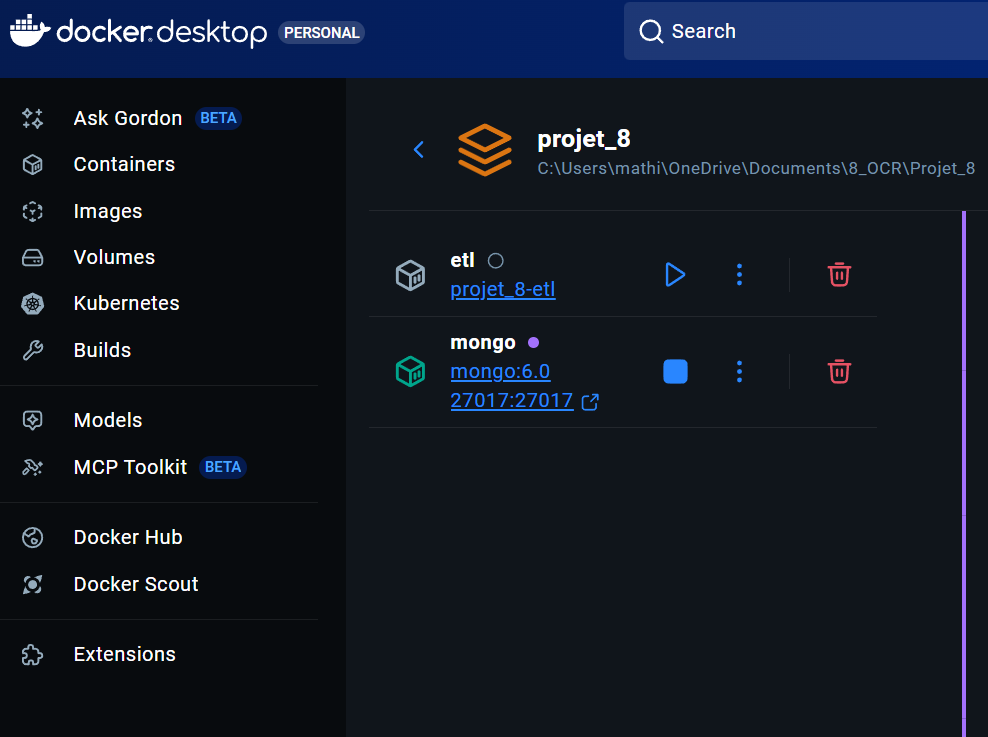
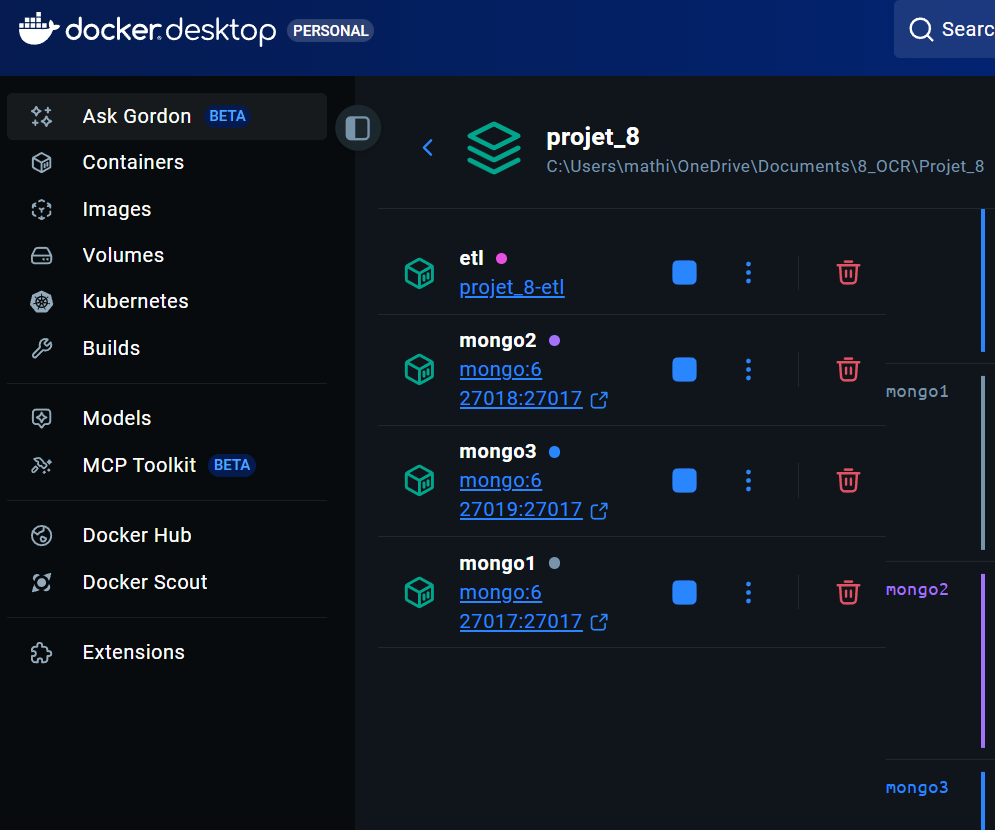
add replica

diff --git a/init-replica.js b/init-replica.js
@@ -1,0 +1,18 @@
+// Attendre que l'initiation soit complète
+var config = {
+  _id: "rs0",
+  members: [
+    { _id: 0, host: "mongo1:27017", priority: 2 },
+    { _id: 1, host: "mongo2:27017", priority: 1 },
+    { _id: 2, host: "mongo3:27017", priority: 1 }
+  ]
+};
+
+rs.initiate(config);
+
+// Attendre que le replica set soit prêt
+sleep(5000);
+
+// Vérifier le statut
+print("Status du replica set:");
+printjson(rs.status());

diff --git a/orchestration/run_pipeline.py b/orchestration/run_pipeline.py
@@ -1,21 +1,12 @@
-"""Script d'orchestration ETL 
-
-Exécute le pipeline complet dans l'ordre :
-    1. Tests unitaires (extract_transform/)
-    2. Extract + Transform
-    3. Tests d'intégration (load/)
-    4. Load MongoDB
-"""
-
 import subprocess
 import sys
-
+import os
 
 def run_tests():
     """Lance les tests pytest"""
     print("Lancement des tests unitaires...")
     result = subprocess.run(
-        ["pytest", "-v", "extract_transform/test_extract_transform.py"],
+        [sys.executable, "-m", "pytest", "-v", "extract_transform/test_extract_transform.py"],
         capture_output=True,
         text=True
     )
@@ -24,7 +15,7 @@ def run_tests():
     
     if result.returncode != 0:
         print("\n ÉCHEC : Les tests ont échoué !")
-        print("Le pipeline ETL ne sera PAS exécuté.")
+        print(result.stderr)
         sys.exit(1)
     
     print("\n Tous les tests sont passés !")
@@ -33,17 +24,14 @@ def run_tests():
 def run_et():
     """Lance le pipeline ETL"""
     print("\nLancement du pipeline ET...")
-    
-    # Importer et exécuter le main du ET
     from extract_transform.main_script_extract_transform import main
     main()
-    
     print("\n Pipeline extract_transform terminé !")
 
 def run_integration_tests():
     print("\n Lancement des tests d'intégration...")
     result = subprocess.run(
-        ["python", "load/tests_integration.py"],
+        [sys.executable, "load/tests_integration.py"],
         capture_output=True,
         text=True
     )
@@ -51,15 +39,14 @@ def run_integration_tests():
     print(result.stdout)
 
     if result.returncode != 0:
-        print("\n --- ERREUR DÉTECTÉE DANS LE SCRIPT ---")
-        print(result.stderr)  # <--- AJOUTE ÇA pour voir le Traceback Python
-        print("\n ÉCHEC : Le script de mesure a planté")
+        print("\n --- ERREUR DÉTECTÉE DANS LES TESTS D'INTÉGRATION ---")
+        print(result.stderr)
         sys.exit(1)
 
 def run_load():
     print("\n Lancement de la pipeline Load...")
     result = subprocess.run(
-        ["python", "load/load_mongo.py"],
+        [sys.executable, "load/load_mongo.py"],
         capture_output=True,
         text=True
     )
@@ -74,9 +61,8 @@ def run_load():
 
     print("\n Réussite du Load !")
 
-if __name__ == "__main__":
-    run_tests()    
-    run_et()      # ←  ne s'exécute QUE si tests OK
+if __name__ == "__main__": 
+    run_et()
+    run_tests() 
     run_load()
     run_integration_tests()
-

diff --git a/load/tests_integration.py b/load/tests_integration.py
@@ -5,26 +5,44 @@ from dotenv import load_dotenv
 
 load_dotenv()
 
-MONGO_URI = os.environ.get("MONGO_URI")
+def get_mongo_uri():
+    is_docker = os.path.exists('/.dockerenv')
+    env_uri = os.environ.get("MONGO_URI")
+    
+    if is_docker:
+        return env_uri if env_uri else "mongodb://mongo1:27017,mongo2:27017,mongo3:27017/?replicaSet=rs0"
+    else:
+        if env_uri and "mongo1" in env_uri:
+            return "mongodb://localhost:27017,localhost:27018,localhost:27019/?replicaSet=rs0"
+        elif env_uri:
+            return env_uri
+        else:
+            return "mongodb://localhost:27017,localhost:27018,localhost:27019/?replicaSet=rs0"
+
+MONGO_URI = get_mongo_uri()
+print(f" Utilisation de l'URI : {MONGO_URI}")
+
 DB_NAME = os.environ.get("MONGO_DB", "meteo_db")
 COLLECTION_NAME = "stations_hourly"
 
-client = MongoClient(MONGO_URI)
+client = MongoClient(
+    MONGO_URI,
+    serverSelectionTimeoutMS=5000
+)
 db = client[DB_NAME]
 collection = db[COLLECTION_NAME]
 
 def measure_query_time(query_func, description=""):
     start = time.time()
-    result = query_func()
+    cursor = query_func()
+    results = list(cursor)
     end = time.time()
-    print(f"{description} : {end-start:.4f}s, {len(list(result))} documents")
+    print(f"{description} : {end-start:.4f}s, {len(results)} documents")
     return end-start
 
-# 1. Toutes les stations
+# Tests
 measure_query_time(lambda: collection.find({}, {"id": 1}), "Toutes les stations")
-
-# 2. Hourly d’une station
 measure_query_time(lambda: collection.find({"id": "ILAMAD25"}, {"hourly": 1}), "Hourly station ILAMAD25")
-
-# 3. Filtrage par date (ex: dernière mesure)
 measure_query_time(lambda: collection.find({"hourly.dh_utc": {"$gte": "2024-01-23T12:00:00"}}), "Filtre par date")
+
+client.close()

diff --git a/load/load_mongo.py b/load/load_mongo.py
@@ -11,7 +11,8 @@ from dotenv import load_dotenv
 
 load_dotenv()
 
-print("MONGO_URI:", os.environ.get("MONGO_URI"))
+print(f"AWS Key trouvée : {'Oui' if os.environ.get('AWS_ACCESS_KEY_ID') else 'Non'}")
+print(f"MONGO_URI : {os.environ.get('MONGO_URI')}")
 
 with open("data/stations_transformed.json", "r", encoding="utf-8") as f:
     documents = json.load(f)
@@ -32,6 +33,7 @@ def get_mongo_uri():
     else:
         # En local, on FORCE localhost, même si le .env dit "mongo"
         return "mongodb://localhost:27017/"
+
 
 MONGO_URI = get_mongo_uri()
 DB_NAME = "meteo_db"
